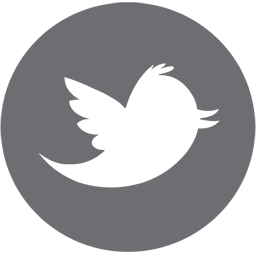
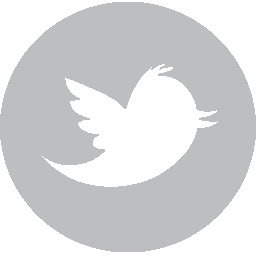
styling sidebar

diff --git a/static/css/style.css b/static/css/style.css
@@ -125,7 +125,13 @@ header.header-is-scrolled .logo-container a {
     height: 120px;
     width: 220px;
 }
-
+#header-second.header-is-scrolled .logo-container a {
+    display: block;
+    background: url('/static/images/logo2.png') no-repeat;
+    background-size: 220px 120px;
+    height: 120px;
+    width: 220px;
+}
 .hero-title {
     margin-top: 300px;
 }
@@ -204,7 +210,7 @@ header.header-is-scrolled .logo-container a {
 }
 
 .main-text {
-    color: #76459b;
+    color: #5d6491;
     margin-top: 0;
     margin-bottom: 20px;
 }
@@ -256,18 +262,32 @@ header.header-is-scrolled .logo-container a {
 }
 
 .thanks-block h1 {
+    color: #483276;
     margin-bottom: 60px;
+    font-weight: 500;
 }
 
 .thanks-block h2 {
     font-weight: 100;
     color: #FFFFFF;
+    margin-top: 40px;
+}
+.terms-block h2{
+    color: #5d6491;
+}
+
+.policy-block h2{
+    color: #5d6491;
 }
 
 .faq-block {
     color: #bc2d6e;
     margin-top: 200px;
     padding: 0 40px;
+}
+
+.faq-block  h2{
+    color: #5d6491;
 }
 
 .header-image, .footer-image {
@@ -501,3 +521,23 @@ header.sidebar-menu-is-open {
     -webkit-overflow-scrolling: touch;
 }
 
+nav ul, nav ol {
+    list-style: none none;
+}
+
+#sidebar-nav ul li {
+    display: block;
+    width: 100%;
+}
+
+#sidebar-nav ul li a {
+    -webkit-transition: all 0.3s;
+    -moz-transition: all 0.3s;
+    transition: all 0.3s;
+    padding: 0 30px;
+    background: #414a61;
+    line-height: 50px;
+    color: #D8D8D8;
+    display: block;
+    font-size: 18px;
+}

diff --git a/templates/partials/header_two.html b/templates/partials/header_two.html
@@ -1,15 +1,30 @@
 {% load i18n %}
 {% load staticfiles %}
 
-<header>
-    <div class="header-two-wrapper">
-        <div class="header-image">
-            <a href="{% url 'home' %}">
-                <img src="{% static 'images/logo2.png' %}" alt="Logo">
-            </a>
-        </div>
-        <div class="header-content-two text-right">
+<header id="header-second">
+    <div class="header-wrapper container">
+        <div class="row">
 
+            <ul>
+                <li class="logo-container">
+                    <a href="{% url 'home' %}">
+                    </a>
+                </li>
+                <li id="navbar" class="nav-container collapsed">
+                    <ul id="nav">
+
+                        <li class="social-nav">
+                            <a href="https://twitter.com/ADfits" target="_blank">
+                                <img height="30px" src="{% static 'images/greytwitter.png' %}" alt="Twitter">
+                            </a>
+                            <a href="https://www.linkedin.com/company/ad-fits" target="_blank">
+                                <img height="30px" src="{% static 'images/greylinkedin.png' %}" alt="LinkedIn">
+                            </a>
+                        </li>
+
+                    </ul>
+                </li>
+            </ul>
         </div>
     </div>
 

diff --git a/templates/faq.html b/templates/faq.html
@@ -8,19 +8,19 @@
 
 {% block content %}
 
-    {% include 'partials/header.html' %}
+    {% include 'partials/header_two.html' %}
     <div class="main-content">
         <div class="container-fluid">
             <div class="row">
                 <div class="faq-block col-lg-12 col-md-12 col-sm-12 col-xs-12">
 
                     <h1 class="main-text-second">
-                        <strong>{% trans "FAQ" %}</strong>
+                        <strong>{% trans "F.A.Q." %}</strong>
                     </h1>
 
-                    <h1 class="main-text">
-                        F.A.Q. CONTENT GOES HERE...
-                    </h1>
+                    <h2 class="main-text">
+                        F.A.Q. content goes here... (grey)
+                    </h2>
 
 
                 </div>

diff --git a/static/css/media.css b/static/css/media.css
@@ -171,13 +171,13 @@
     }
 
     .adf-widgetdialog {
-        width: 300px !important;
+        width: 270px !important;
 
     }
 
     .adf-widgetdialog .adf-modalbox {
-        width: 300px !important;
-        height: 200px !important;
+        width: 270px !important;
+        height: 180px !important;
 
     }
 
@@ -245,7 +245,7 @@
     }
 
     .section_3{
-        height: 900px;
+        height: 800px;
     }
 
     .section_5 {
@@ -255,6 +255,14 @@
     .jump-to-form-button, .form-button, .experience-button {
 
         font-size: 15px;
+    }
+
+    .image-half{
+        height: 170px;
+    }
+
+    .image-half img{
+        height: 150px;
     }
 
 }

diff --git a/templates/partials/sidebar.html b/templates/partials/sidebar.html
@@ -1,10 +1,10 @@
+{% load i18n %}
+
 <nav id="sidebar-nav">
     <ul class="nav-2" id="nav-3">
-        <li><a href="/security">Security</a></li>
-        <li><a href="/faqs">FAQ</a></li>
-        <li><a href="/blog">Blog</a></li>
-        <li><a href="/press">Press</a></li>
-        <li><a id="" href="" data-toggle="modal" data-target="#ModalContact">Contact</a></li>
-        <li><a href="#access">Get Early Access</a></li>
+        <li><a href="{% url 'home' %}">Home</a></li>
+        <li><a href="{% url 'home' %}">How it works</a></li>
+        <li class="cta"><a href="#section-form">REQUEST ACCESS</a></li>
+
     </ul>
 </nav>

diff --git a/templates/terms.html b/templates/terms.html
@@ -13,14 +13,14 @@
     <div class="main-content">
         <div class="container-fluid">
             <div class="row">
-                <div class="thanks-block col-lg-12 col-md--12 col-sm-12 col-xs-12">
+                <div class="thanks-block terms-block col-lg-12 col-md--12 col-sm-12 col-xs-12">
 
                     <h1 class="main-text">
                         <strong>{% trans "TERMS OF USE" %}</strong>
                     </h1>
 
                     <h2 class="main-text">
-                        LEGAL CONTENT GOES HERE...
+                        Legal content goes here (grey)
                     </h2>
 
 

diff --git a/templates/thanks.html b/templates/thanks.html
@@ -12,9 +12,9 @@
 
     <div class="main-content">
         <div class="section_6">
-            <div class="container">
+            <div class="container-fluid">
                 <div class="row">
-                    <div class="thanks-block col-lg-12 col-md-12 col-sm-12 col-xs-12">
+                    <div class="thanks-block col-lg-12 col-md-12 col-sm-12 col-xs-12 text-center">
 
                         <h1 class="main-text">
                             {% trans "THANK YOU!" %}

diff --git a/templates/policy.html b/templates/policy.html
@@ -12,7 +12,7 @@
     <div class="main-content">
         <div class="container-fluid">
             <div class="row">
-                <div class="thanks-block col-lg-12 col-md--12 col-sm-12 col-xs-12">
+                <div class="thanks-block policy-block col-lg-12 col-md--12 col-sm-12 col-xs-12">
 
                     <h1 class="main-text">
                         <strong>{% trans "PRIVACY POLICY" %}</strong>

diff --git a/templates/partials/header.html b/templates/partials/header.html
@@ -40,8 +40,6 @@
                 <button type="button" class="navbar-toggle">
                     <i class="fa fa-bars fa-2x"></i>
                 </button>
-
-
             </div>
 
         </div>
